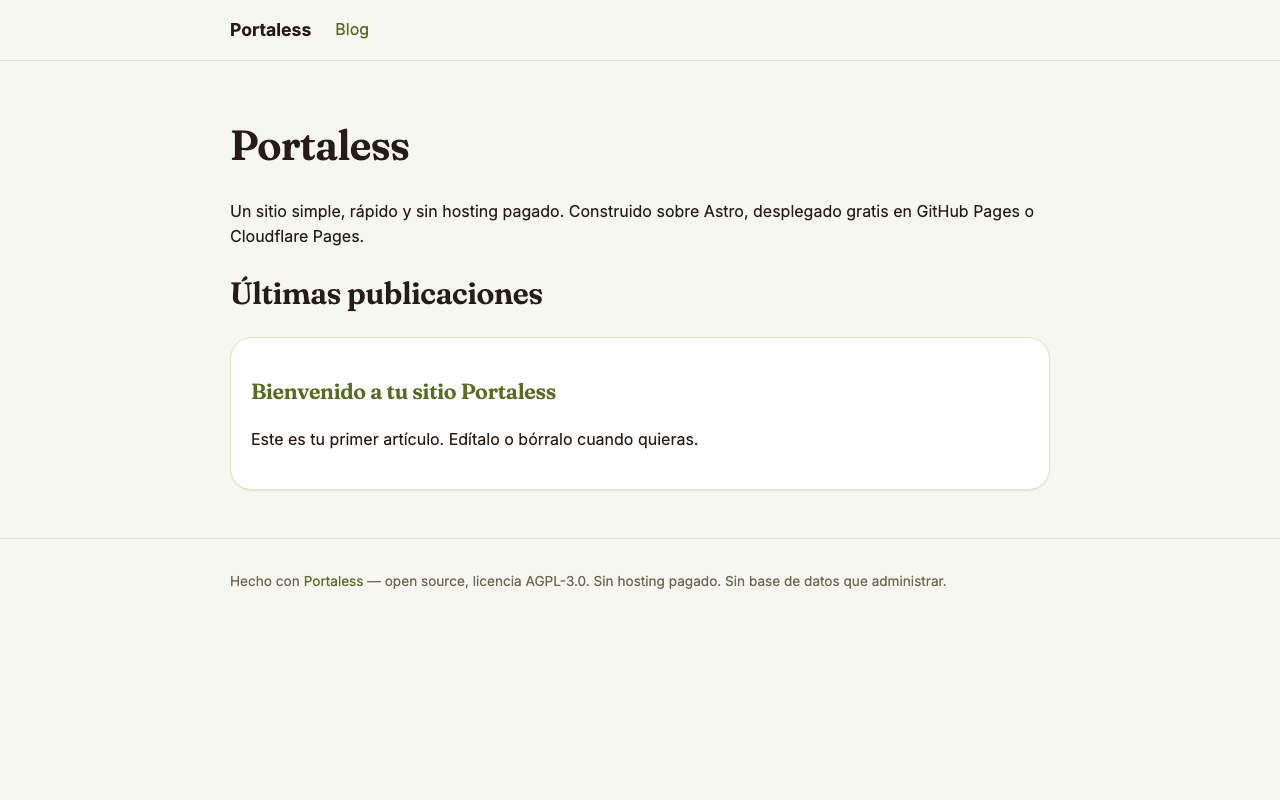
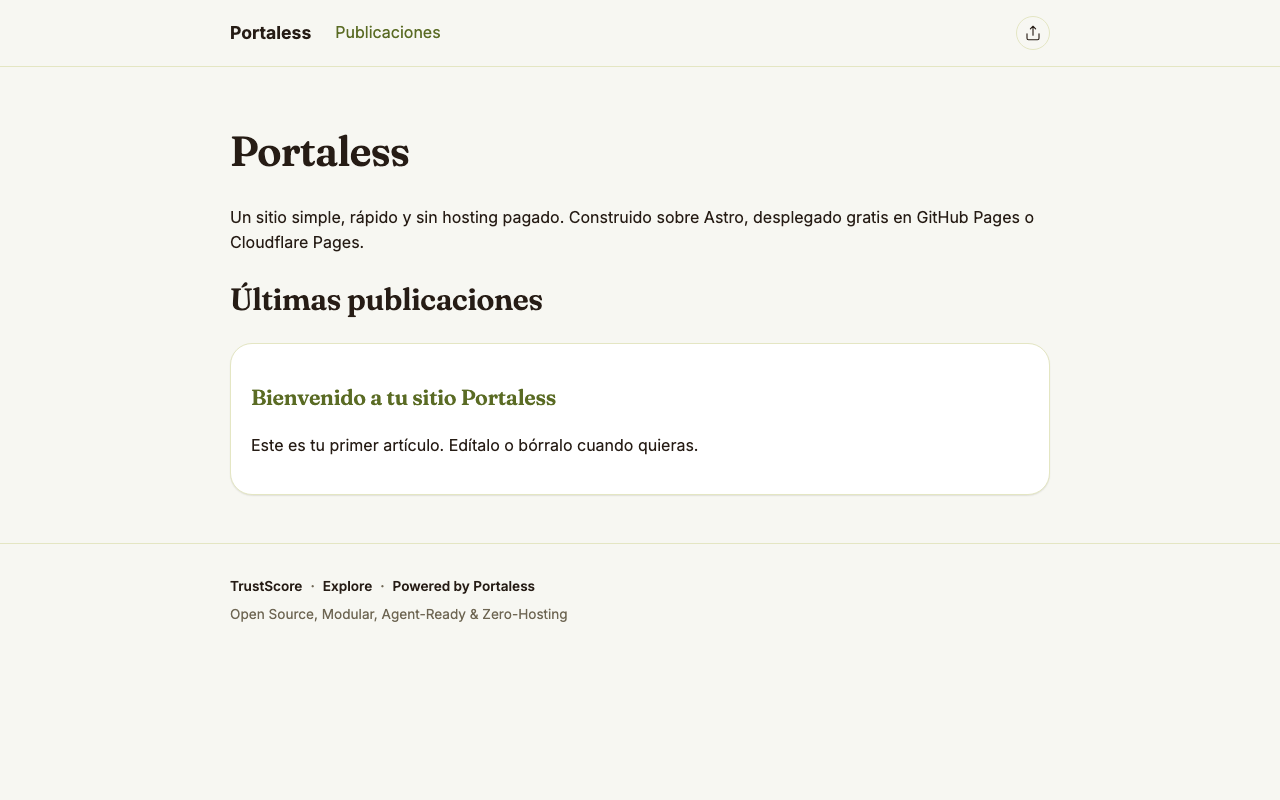
Fix: remove fabricated values from the public trust surface
GET /trust/default is the page the footer links from every page, and it showed
eleven hardcoded rows — including trustworthiness percentages no code computes,
a "92 Veraciers" count when there is one operator, and a "4.9/5" that ERRATA
E-13 had already removed from the scoring. It contradicted the project own
honesty rule.

- src/pages/trust/index.astro: renderIdentitySection now builds its rows only
  from the snapshot the page already fetches (self / agent / community /
  escrow_report lengths), each as a real count or "Sin datos". The fabricated
  array (country, join date, the four confiabilidades, and the external-reach
  rows for Spotify/YouTube/Apple Music/Instagram/Facebook) is gone. The error
  path no longer invents "identidad canónica": on failure the section is not
  rendered and only the API-unavailable notice shows.
- src/content/pages/jerry-bantz.json: the LinkList item that advertised
  "TrustScore: 92 Veraciers · Perfil Verificado" now reads
  "Ver el registro de confianza (TrustScore)" — a verifiable label.
- docs/screenshots: trust-identity-card.png deleted (it captured the removed
  card and was referenced nowhere); all captures regenerated.
- Tests: tests/unit/trust-page-honesty.test.ts asserts the source contains no
  fabricated literal (92 Veraciers, 98%, 95%, 100%, Sin disputas, 4.9, 32K+)
  and no "identidad canónica"; tests/browser/public-ecosystem-footer.spec.ts
  adds /trust/default renders the real summary and contains no "92".
[…]

diff --git a/tests/unit/trust-page-honesty.test.ts b/tests/unit/trust-page-honesty.test.ts
@@ -1,0 +1,40 @@
+// Honestidad de la superficie PUBLICa de TrustScore (GET /trust/default, la
+// pagina que enlaza el footer desde todo el sitio). Hasta la Fase 12 mostraba
+// once valores escritos a mano -- "92 Veraciers", "98%", "32K+", "4.9", etc. --
+// que ningun codigo calculaba y que la ERRATA E-13 ya habia retirado del
+// computo. Es un test de FUENTE a proposito: impide que un literal inventado
+// vuelva a entrar sin que CI lo note (mismo patron que
+// site-ecosystem-footer.test.ts, que fija constantes a nivel de fuente).
+import { describe, it, expect } from "vitest";
+import { readFileSync } from "node:fs";
+import { join } from "node:path";
+
+const root = join(__dirname, "..", "..");
+const trustPage = readFileSync(join(root, "src", "pages", "trust", "index.astro"), "utf8");
+const jerryBantz = readFileSync(join(root, "src", "content", "pages", "jerry-bantz.json"), "utf8");
+
+describe("página pública de TrustScore: sin valores fabricados", () => {
+  it("no contiene ninguno de los literales inventados", () => {
+    for (const bad of ["92 Veraciers", "98%", "95%", "100%", "Sin disputas", "4.9", "32K+"]) {
+      expect(trustPage, `literal fabricado presente: ${bad}`).not.toContain(bad);
+    }
+  });
+
+  it("el camino de error no inventa datos 'canónicos'", () => {
+    expect(trustPage).not.toContain("identidad canónica");
+    expect(trustPage).not.toContain("identidad canonica");
+  });
+
+  it("el resumen se calcula del snapshot (longitudes reales), no de un array fijo", () => {
+    expect(trustPage).toContain("snapshot.self");
+    expect(trustPage).toContain("snapshot.agent");
+    expect(trustPage).toContain("snapshot.community");
+    expect(trustPage).toContain("snapshot.escrowReports");
+    expect(trustPage).toContain("Sin datos");
+  });
+
+  it("la bio de ejemplo no anuncia un conteo fabricado de Veraciers", () => {
+    expect(jerryBantz).not.toContain("92 Veraciers");
+    expect(jerryBantz).not.toContain("Perfil Verificado");
+  });
+});

diff --git a/tests/browser/public-ecosystem-footer.spec.ts b/tests/browser/public-ecosystem-footer.spec.ts
@@ -81,3 +81,18 @@ test("Explore existe y lista paginas publicadas (sin links rotos)", async ({ pag
   await expect(page.getByRole("link", { name: /Jerry Bantz/ })).toBeVisible();
   await expect(page.getByRole("link", { name: "TrustScore de este sitio" })).toBeVisible();
 });
+
+// Fase 12 (§2): la superficie publica /trust/default no muestra valores
+// fabricados. El resumen son conteos reales del snapshot o "Sin datos".
+test("/trust/default renderiza el resumen real y no contiene '92'", async ({ page }) => {
+  await page.goto("/trust/default");
+
+  await expect(page.getByRole("heading", { level: 1, name: "Site Trust Score" })).toBeVisible();
+  await expect(page.locator(".st-source-section").first()).toBeVisible();
+
+  const body = await page.locator("body").innerText();
+  expect(body).not.toContain("92");
+  expect(body).not.toContain("32K+");
+  expect(body).not.toContain("Sin disputas");
+  expect(body).not.toContain("canónica");
+});
